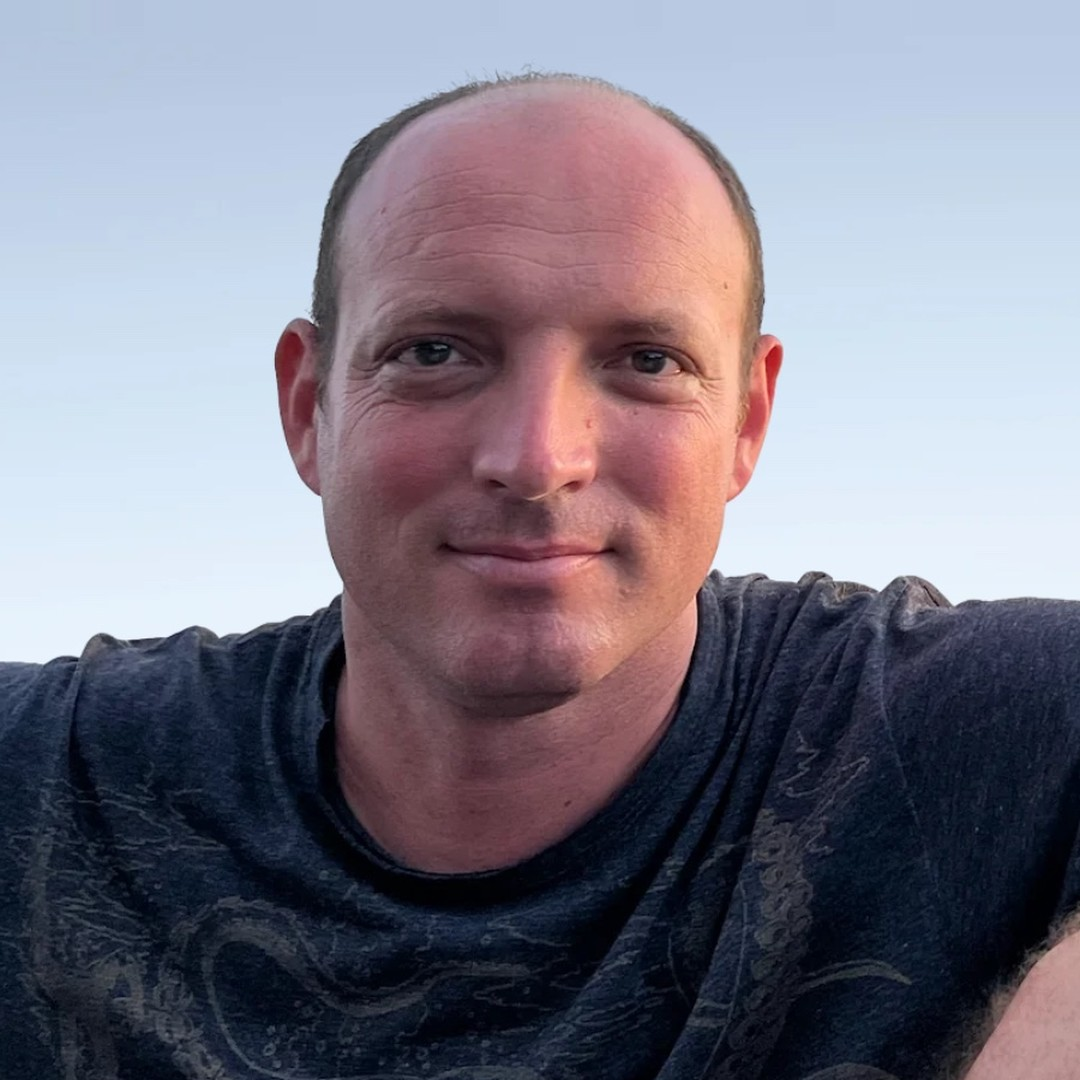
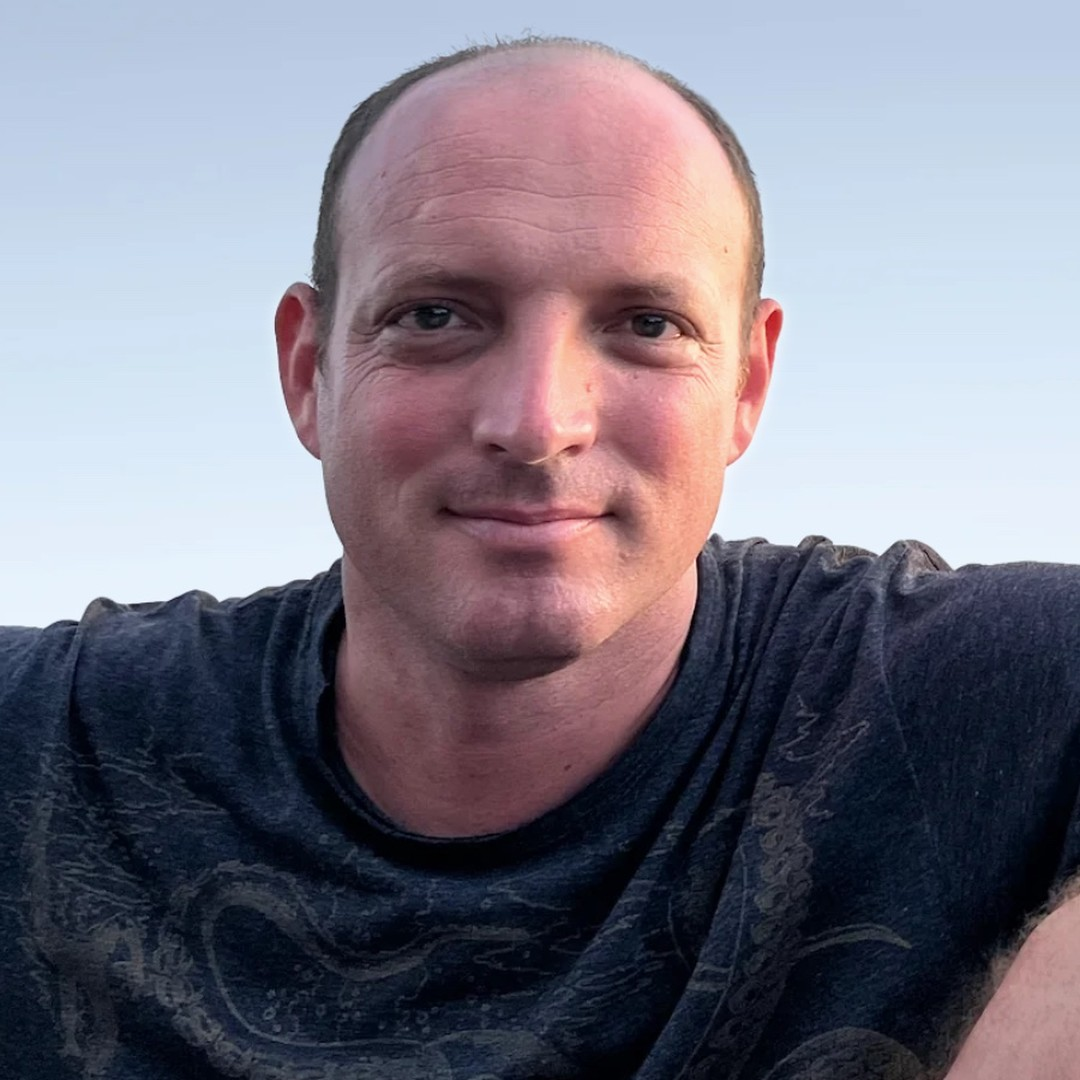
Raise and lighten Noan Fesnoux's photo
Claude-Session: https://claude.ai/code/session_01UY2yYSyHezMTLTrkPybDFD

Changed region(s): [[0.0, 0.0306, 1.0, 1.0]]

diff --git a/team.html b/team.html
@@ -283,7 +283,7 @@
       </div>
       <div class="team-grid team-grid-advisory">
         <div class="team-card">
-          <div class="team-photo"><img src="assets/noan-fesnoux.jpg" alt="Noan Fesnoux"></div>
+          <div class="team-photo"><img src="assets/noan-fesnoux.jpg?v=2" alt="Noan Fesnoux"></div>
           <h3>Noan Fesnoux</h3>
           <p class="role">Consultant, Teal Organizations</p>
         </div>
